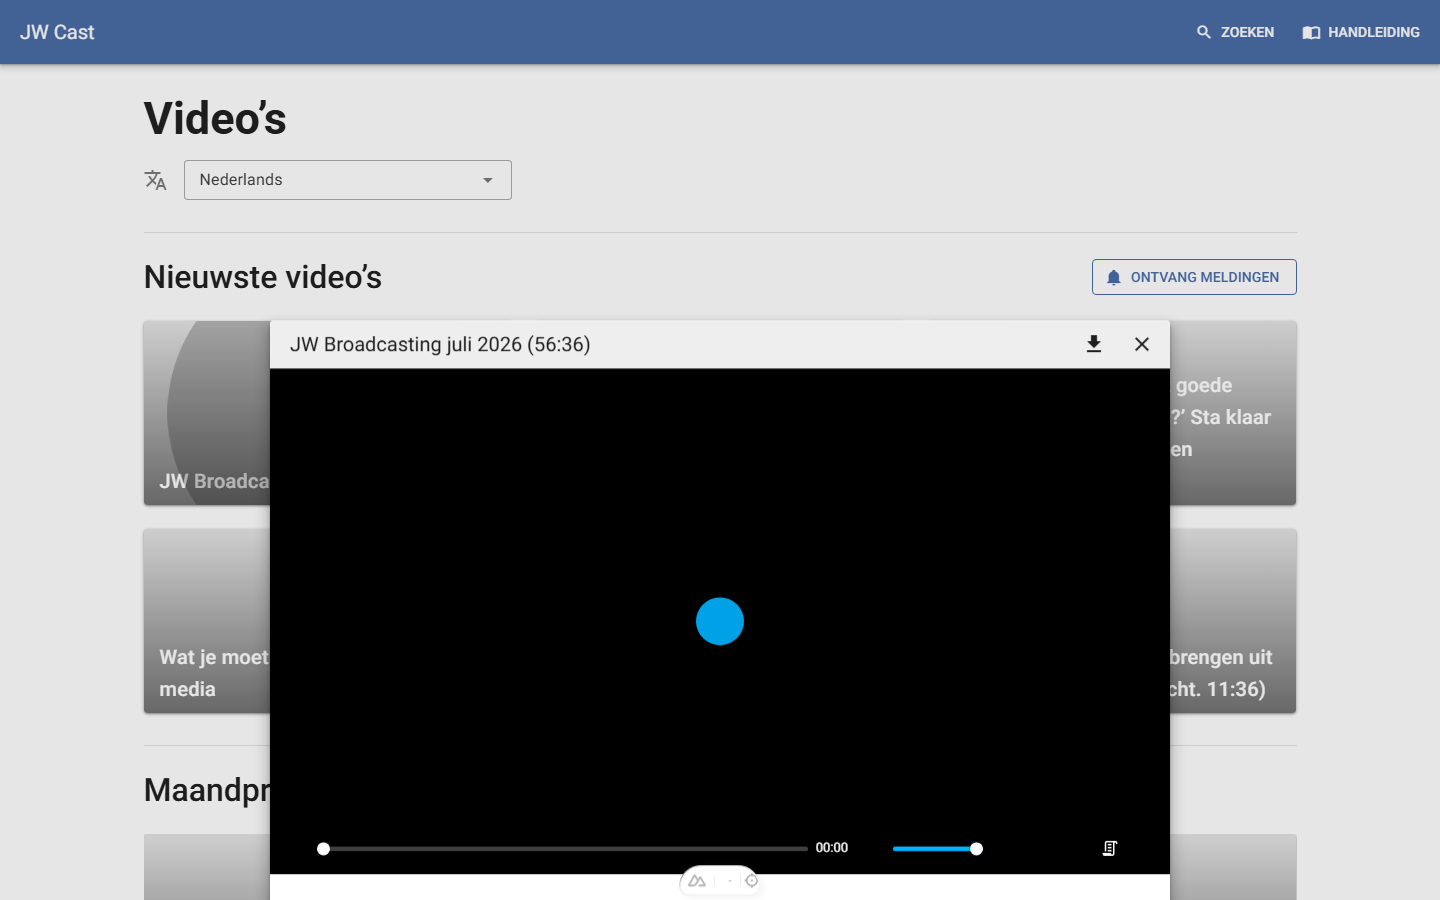
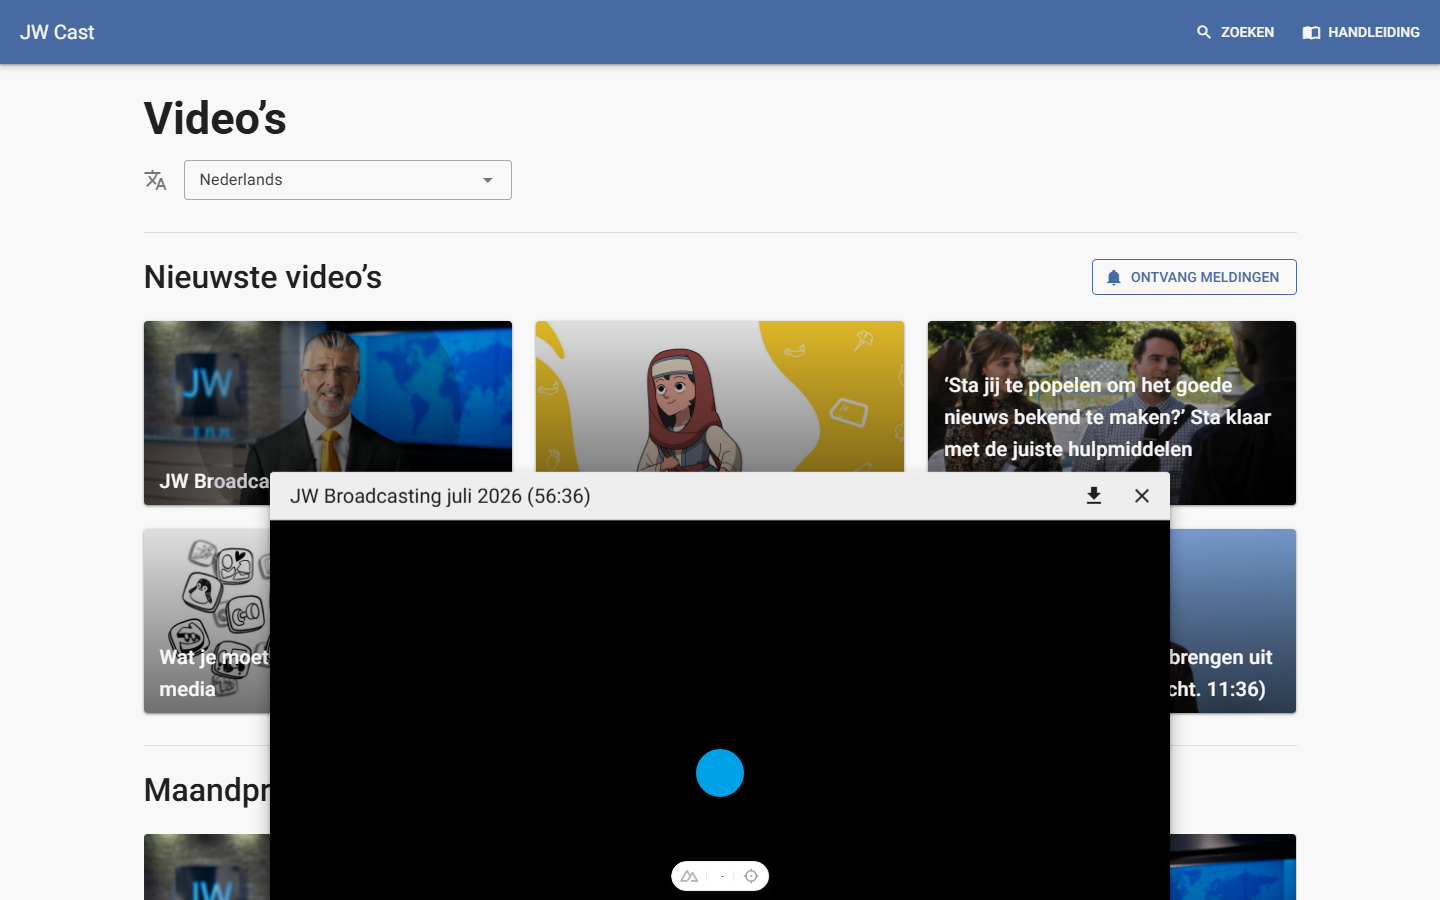
docs: log phase 5

diff --git a/docs/RESTRUCTURE-LOG.md b/docs/RESTRUCTURE-LOG.md
@@ -75,3 +75,23 @@ Per phase (after its final sub-commit): `pnpm lint` + `nuxi typecheck` + `pnpm b
 **Browser checks** (`docs/verify/phase-4/`): Dutch search placeholder from dict ✅ (`01-nl-search.png`); dialog buttons "Transcript" + "Afspelen" (API translation winning over dict, as designed) ✅ (`02-nl-dialog.png`); English placeholder on `/en` ✅ (`03-en-search.png`).
 
 **Gate:** lint ✅ · typecheck ✅ · build ✅ · browser ✅
+
+---
+
+## Phase 5 — restructure to the §3 target tree
+
+**Commits:** `5410da7` (5a pure component moves), `97fb1c3` (5a pathPrefix + usage renames), `8109585` (5b pure store rename), `37839e3` (5b store split), `ea831ae` (5c type splits), `48a53f2` (5d renames + assertion removal).
+
+**Changed:**
+- Components relocated as git renames into `browse/`, `player/`, `cast/`, `search/`, `common/`; `button/` directory removed. `pathPrefix: false` set; usages renamed: `ButtonCast`→`CastButton`, `ButtonTranscript`→`TranscriptButton`, `CommonLanguageSelect`→`LanguageSelect`, `PlayerVideoDownloadMenu`→`VideoDownloadMenu`.
+- `stores/app.ts` → `stores/language.ts` (git rename) then split: `useLanguageStore` (languages, locales, translations, `t()`, whatsappChannel, prefs; persist `key: 'app'` pinned) + `useUiStore` (dialog flags, `selectedVideo`, `openVideo`). All 15 consumers rewritten.
+- Types: search API types → `types/search.ts`; Cast SDK surface → `types/cast.ts`; `WhatsAppChannel` → `types/index.ts`.
+- 5d renames: `getSiteLanguage`/`getVideoLanguage`/`getSubtitleLanguage` → `siteLanguageInfo`/`videoLanguageInfo`/`subtitleLanguageInfo`, typed `computed<Language>` (one `[0]!` inside the store), all ~15 call-site `!` assertions deleted; `transcriptDialog`/`setTranscriptDialog` → `transcriptPanel`/`setTranscriptPanel`. F-17 (explicit Plyr type import) had already landed with 3a.
+
+**Decisions:**
+- Getter naming: `…Info` suffix chosen over `siteLocale`/`siteLanguage` because the persisted fields `videoLanguage`/`subtitleLanguage` cannot be renamed, so string state keeps its names and the object getters get the suffix — one uniform pattern.
+- Store split runs `useLanguageStore()` + `useUiStore()` side by side in files needing both; no facade store kept.
+
+**Browser checks** (`docs/verify/phase-5/`): **hard invariant verified** — a pre-split `app` cookie (`{"videoLanguage":"de","subtitleLanguage":"en"}`) seeded before load restores "Duits (Deutsch)" audio + "Engels (English)" subtitles in the dialog selectors ✅ (`01-cookie-restore.png`). Phase 3 regression suite re-run: all 6 pass.
+
+**Gate:** lint ✅ · typecheck ✅ · build ✅ · browser ✅
